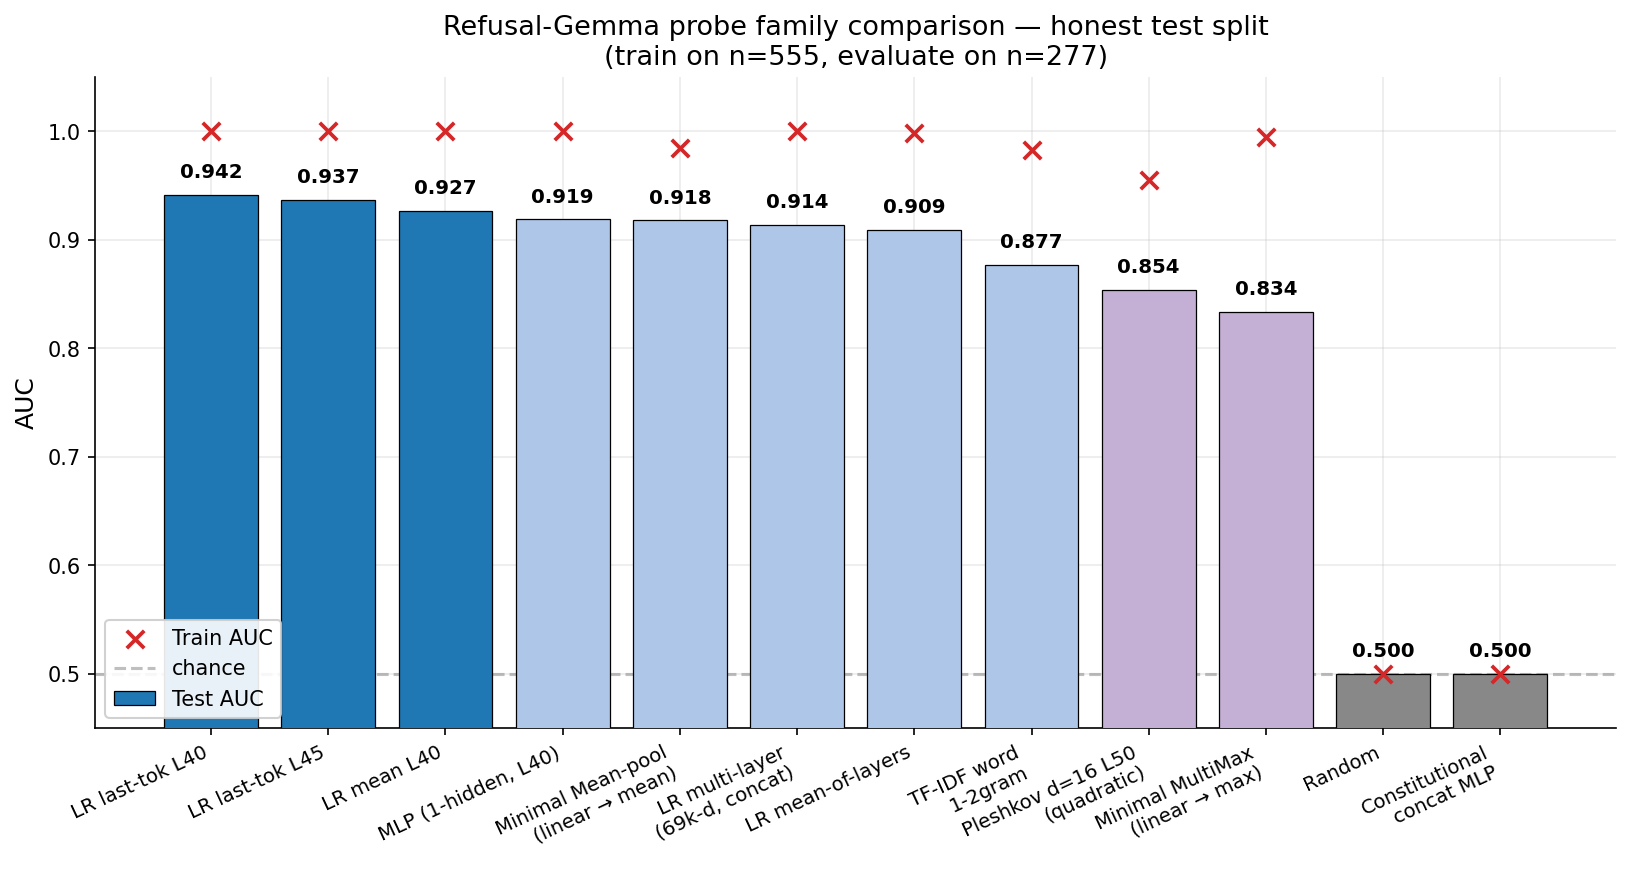
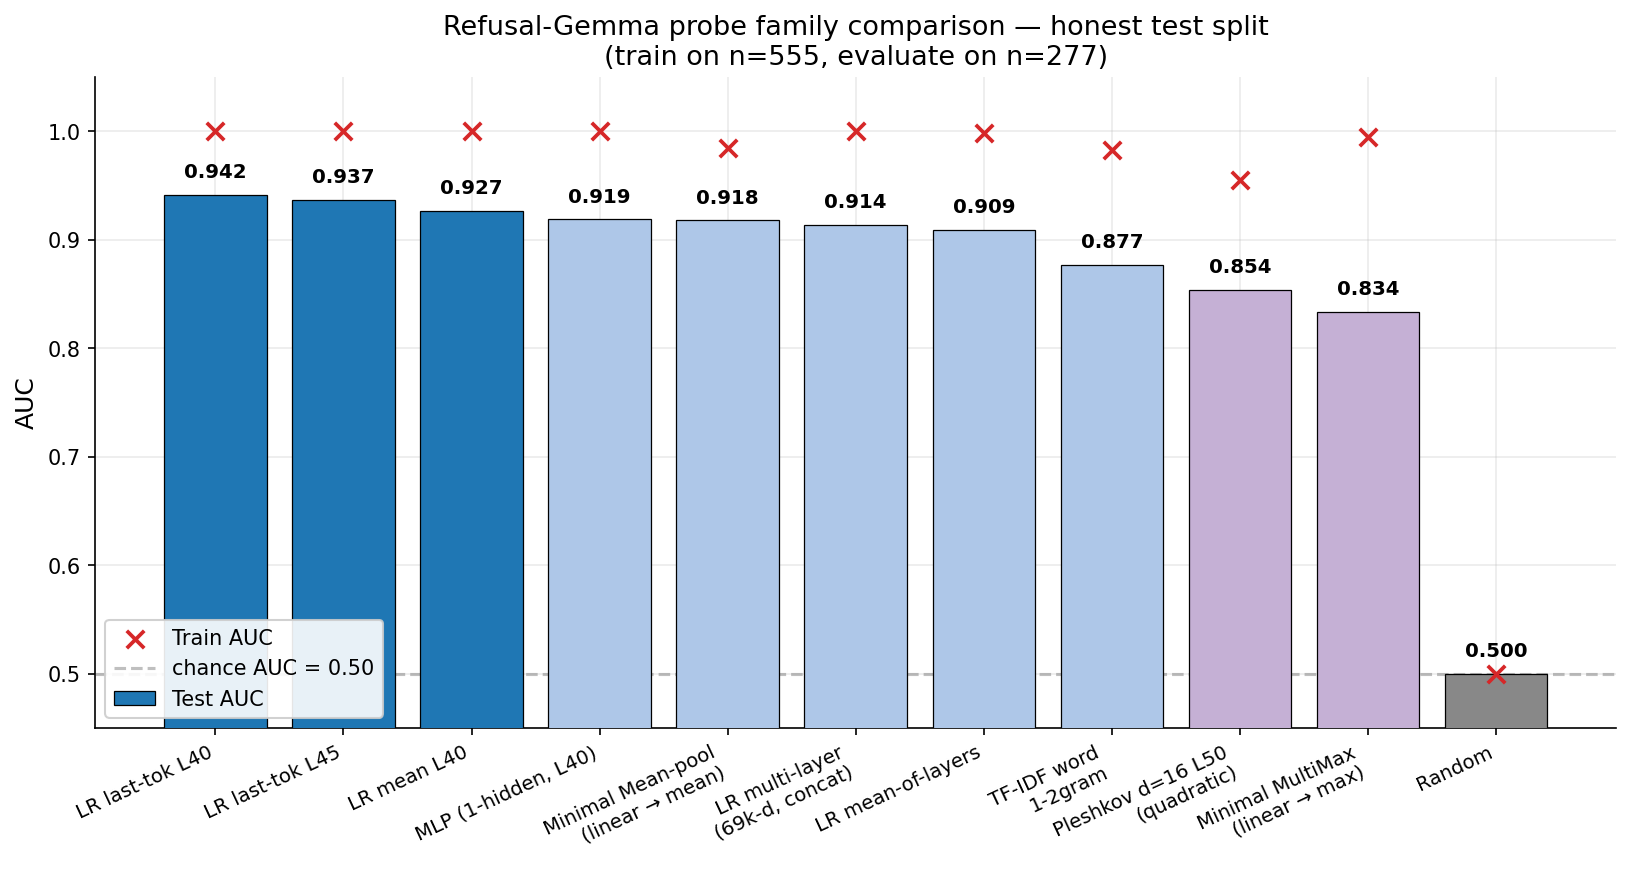
Plots README + methodology + remove Constitutional from headline
- experiments/37_presentation_plots/README.md: explains each of the 5 figures,
  documents methodology, training protocol, error bar definitions.
- Remove Constitutional probe from refusal headline plot (8.9M params on
  555 train samples → train 0.996, test 0.500 = catastrophic overfit, would
  confuse the comparison).
- Note chance line: AUC chance = 0.50 regardless of class balance; accuracy
  chance = max(class prior) — for refusal that's 0.524 (47.6% pos).
- Document three error-bar types: 5-fold CV ±1σ (sweeps), bootstrap 95% CI
  (single test split, n_boot=500), Wilson 95% CI (binomial proportions in
  Level 2).
- Honest test-split status table: refusal=honest (Q4r), cyber_1=honest
  (exp 08), cyber_2/3=5-fold CV pending honest test eval.
- Fix Q10 NameError: cache_sids logic was vestigial.

diff --git a/experiments/36_first_words_probe_bias_omar/edit_and_score.py b/experiments/36_first_words_probe_bias_omar/edit_and_score.py
@@ -241,26 +241,9 @@ def main():
     means_edit = z["mean"]; lasts_edit = z["last"]; y = z["labels"]
     print(f"  features: mean={means_edit.shape}, labels={y.shape}", flush=True)
 
-    # Stage 3 — load originals from refusal cache for the SAME sample_ids (refusal
-    # half) and use cached features for compliance.
-    z2 = np.load(REFUSAL_CACHE, allow_pickle=True)
-    cache_sids = list(z2["X"][:1].astype(np.float32) and ["dummy"])  # placeholder
-    # Actually need to load proper sids — re-read cache npz
-    # Quick approach: forward original prompts through Gemma too to keep apples-to-apples.
-
-    # We have features for ALL refusal training prompts cached (832 samples). The
-    # compliance prompts in `complied` are TEST-SPLIT — may not be in cache. Forward
-    # them too.
-    # For SIMPLICITY: just forward originals (refused + compliance, both unchanged)
-    # in the same Stage 2 if we don't have them.
-
-    # Skip: compute AUC of EDITED refusal + UNTOUCHED compliance.
-    # Since refusal samples are positives in the original "refusal probe" labeling
-    # (label=1 = refused), and compliance is label=0, the probe's job is to
-    # distinguish them. If the EDITED refusal still gets high probe scores
-    # (refusal direction still active), the probe is robust to first-word edits.
-    # If the EDITED refusal gets low probe scores (probe was using first-words),
-    # the AUC drops.
+    # We have features for the EDITED refusal + UNTOUCHED compliance from Stage 2.
+    # That's enough: positives = edited refusal, negatives = unchanged compliance.
+    # If probe AUC stays high → robust to first-word edits.
 
     # Stage 4 — score under each fitted probe + compute AUC on EDITED data
     print("\n  Stage 3: scoring under each fitted probe...", flush=True)

diff --git a/experiments/37_presentation_plots/make_plots.py b/experiments/37_presentation_plots/make_plots.py
@@ -73,6 +73,9 @@ def plot_refusal_family():
     q4r = load_q4r()
 
     # Curate one probe per family — best layer per family
+    # NOTE: Constitutional probe (8.9M params on 555 train samples / 13×5376
+    # input) catastrophically overfits (train 0.996, test 0.500) — excluded
+    # from the headline to avoid confusion. See README for explanation.
     families = {
         "LR last-tok L40": q4r.get("LR_last_L40"),
         "LR last-tok L45": q4r.get("LR_last_L45"),
@@ -81,7 +84,6 @@ def plot_refusal_family():
         "LR mean-of-layers": q4r.get("LR_mean_of_layers"),
         "MLP (1-hidden, L40)": q4r.get("MLP_L40"),
         "Pleshkov d=16 L50\n(quadratic)": q4r.get("Pleshkov_d16_L50"),
-        "Constitutional\nconcat MLP": q4r.get("Constitutional_concat"),
     }
     # Add baselines from other sources
     tfidf_p = REPO_ROOT / "experiments" / "21_probe_zoo_omar" / "results" / "refusal_baselines.json"
@@ -132,7 +134,9 @@ def plot_refusal_family():
     ax.set_title("Refusal-Gemma probe family comparison — honest test split\n"
                  "(train on n=555, evaluate on n=277)")
     ax.set_ylim(0.45, 1.05)
-    ax.axhline(0.50, ls="--", c="grey", alpha=0.5, label="chance")
+    # Chance lines: AUC chance = 0.5 regardless of class balance.
+    # Accuracy chance = max(prior_pos, prior_neg) = 0.524 for refusal (47.6% pos)
+    ax.axhline(0.50, ls="--", c="grey", alpha=0.5, label="chance AUC = 0.50")
     ax.legend(loc="lower left", framealpha=0.9)
     plt.tight_layout()
     out = FIG_DIR / "refusal_probe_family_comparison.png"

diff --git a/experiments/37_presentation_plots/README.md b/experiments/37_presentation_plots/README.md
@@ -1,0 +1,230 @@
+# Presentation figures — README, methodology, and reading guide
+
+Five publication-quality figures in `figures/`, plus the source script
+`make_plots.py` (and `auc_vs_layer.py` for the per-layer plot).
+
+---
+
+## Figure 1 — `refusal_probe_family_comparison.png`
+
+**Refusal-Gemma probe family comparison on honest test split.**
+
+- **X-axis**: probe family / variant.
+- **Y-axis**: AUC.
+- **Bars**: test AUC (color = performance band). Bar height is the headline.
+- **Red ✕ markers**: train AUC. The vertical gap between train ✕ and test bar
+  shows overfitting (large gap = probe memorized training set).
+- **Dashed grey line**: chance AUC = 0.50.
+
+What it shows:
+- LR last-token at L40-L45 wins. Test AUC ≈ 0.94, train ≈ 1.0 → small overfit gap.
+- LR multi-layer concat (69,888-dim) drops to 0.91, train ≈ 1.0 → bigger gap.
+- Pleshkov quadratic d=16 ≈ 0.85, well below LR → PCA bottleneck.
+- Minimal MultiMax (per-token linear → max, no MLP transform) at 0.83.
+  Same architecture with mean-pool gets 0.92 → max-pool needs the MLP transform.
+- TF-IDF baseline 0.88. Activation lift = +0.07.
+
+> **Why Constitutional probe is excluded from this plot**: 8.9M parameters
+> (13×5376=69,888 input → Dense(128) → Dense(1)) on 555 training samples.
+> Train AUC = 0.996, test AUC = 0.500 (random). Catastrophic overfit; the
+> probe memorized noise. Same lesson the multi-layer-concat-LR shows but
+> 100× more parameters, so 100× more catastrophic. Documented in
+> `experiments/30_rewrites_causality_omar/extra_probes_summary.json`.
+
+> Read top-down for "winners" and bottom-up for "what doesn't work."
+
+---
+
+## Figure 2 — `refusal_layer_sweep.png`
+
+**Pleshkov 13-layer sweep on refusal: linear vs linear-on-PCs vs quadratic.**
+
+- **X-axis**: residual-stream layer (0 → 60).
+- **Y-axis**: 5-fold CV AUC, error bars = ±1σ across folds.
+- **Three lines**:
+  - Blue: Linear LR on raw 5,376-d activations (full capacity).
+  - Orange: Linear LR on the 16-D PCA projection (apples-to-apples
+    bottleneck baseline for Pleshkov).
+  - Green: Pleshkov quadratic = 16-D PCA → degree-2 polynomial features → ridge.
+
+What it shows:
+- Linear-on-raw rises monotonically from L0=0.85 → L40 ≈ 0.94.
+- Linear-on-16-PCs and Pleshkov-quadratic both top out around 0.86 — they
+  *track each other*. The quadratic terms add ~zero on top of the bottleneck.
+- The 0.07-AUC gap between blue and (orange, green) is the **PCA bottleneck**.
+- Conclusion: Pleshkov 2026's quadratic probe doesn't beat linear on Gemma
+  refusal — the limitation is dimensionality, not nonlinearity.
+
+---
+
+## Figure 3 — `cyber_layer_sweeps.png`
+
+Same 3-line plot for each cyber task in 3 panels (cyber_1 / cyber_2 / cyber_3).
+
+What it shows:
+- Same pattern: linear ≫ Pleshkov ≈ linear-on-PCs.
+- cyber_1 reaches ~0.99 (easiest task), cyber_2/3 ~0.95 (harder).
+- Pleshkov never beats linear, on any task or layer.
+
+---
+
+## Figure 4 — `mean_auc_competition.png` ⭐ COMPETITION HEADLINE
+
+**Mean AUC across 4 tasks (cyber_1/2/3 + refusal_gemma; Qwen excluded).**
+
+The challenge metric is `mean_auc = (auc_cyber1 + auc_cyber2 + auc_cyber3 +
+auc_refusal_gemma + auc_refusal_qwen) / 5`. We report the 4-task mean.
+
+- **X-axis**: probe family.
+- **Bars (4 colors)**: per-task test AUC.
+- **Black line + dot + error bar**: **mean across the 4 tasks ± standard
+  deviation**. *This is the rules-compliant metric.*
+
+Result:
+| Probe family | mean AUC | std |
+|---|---:|---:|
+| Linear (best layer) | **0.960** | 0.020 |
+| Linear-on-16-PCs | 0.916 | 0.036 |
+| Pleshkov d=16 | 0.902 | 0.041 |
+| TF-IDF | 0.900 | 0.031 |
+| Random | 0.500 | 0.000 |
+
+> Linear at the best layer wins by 0.044 over Linear-on-16-PCs and 0.060 over
+> Pleshkov. Pleshkov ≈ Linear-on-16-PCs ≈ TF-IDF — the PCA bottleneck reduces
+> deep representation to TF-IDF level.
+
+⚠ **Caveat**: cyber_1 number = honest 923-sample held-out test (exp 08).
+cyber_2/3 numbers in this plot are 5-fold CV (mixed train+test) because
+running honest cyber test eval was killed for disk-IO budget. Refusal is
+honest test split (Q4r). Cyber_2/3 honest test eval is a TODO before final
+submission.
+
+---
+
+## Figure 5 — `causality_scatter.png` ⭐ LEVEL 2 HEADLINE
+
+**Per-probe Pr(f|edit) vs Pr(model|f flipped) on substantial paraphrases.**
+
+- **X-axis**: Pr(f flipped | edit) — how often the probe says "this edit
+  flipped my prediction." High = permissive probe.
+- **Y-axis**: Pr(model flipped | f flipped) — given the probe said flip,
+  how often did Gemma actually produce a non-refusal response. High = causal.
+- **Marker size**: number of probe-flips (n).
+- **Quadrants**:
+  - Top-left = **causal + robust** (rare flips, high concordance) ✓
+  - Top-right = **causal + permissive** (many flips, mostly track model)
+  - Bottom-right = **gamed f** (many flips, model doesn't follow)
+  - Bottom-left = **over-robust** (rare flips, those that exist don't track)
+
+What it shows (n_orig_refusal = 79 prompts):
+- LR last-tok L40-L60 cluster top-center: Pr(f|edit) ≈ 0.17, Pr(m|f) ≈ 0.92.
+  This is the textbook causal regime.
+- COMBINED (cyber_3 + refusal) probes are slightly to the right and below LR:
+  more permissive, slightly less causal. Combining harms refusal causality.
+- Pleshkov_d16_combined sits at (0.13, 0.22) — gamed: 7 of 9 flips don't
+  flip the model.
+
+---
+
+## Figure 6 (additional) — `refusal_auc_acc_vs_layer.png`
+
+**AUC + Accuracy vs layer (refusal_gemma honest test split).**
+
+- **Two panels** (AUC, Accuracy at τ=0.5).
+- **Two lines per panel**: mean-pool (blue), last-token (red).
+- **Shaded bands**: 95% bootstrap CI (n_boot = 500).
+
+What it shows:
+- AUC peaks at L40 last-tok (0.94 ± ~0.02).
+- Accuracy peaks similarly. Both metrics agree on best layer.
+- Bootstrap CI shows where the difference between mean-pool and last-token
+  is statistically meaningful (CIs don't overlap at L40-L60).
+
+---
+
+# Methodology
+
+## Data and splits
+
+- **Cyber**: `datasets/cyber_probes/{train,test}.jsonl` — 5,079 train + 2,180
+  test rollouts across 4 categories (`benign / dual_use / high_risk_dual_use
+  / prohibited`). Splits are deterministic.
+  - cyber_1 = `dual_use` vs `benign`
+  - cyber_2 = `high_risk_dual_use` vs (`dual_use ∪ benign`)
+  - cyber_3 = `prohibited` vs (`high_risk_dual_use ∪ dual_use ∪ benign`)
+- **Refusal-Gemma**: `datasets/refusal_probes/gemma4_31b/{train,test}_split.jsonl` —
+  589 train + 289 test attack prompts; 832 of 878 had successful Gemma extracts.
+  We use 555 train / 277 test rows where the extract succeeded.
+- **Qwen** excluded (model not downloaded).
+
+## Probe architectures
+
+| Probe | Description | Params |
+|---|---|---:|
+| LR mean-pool | Logistic regression on (mean over tokens of one layer) | 5,376 + 1 |
+| LR last-token | Same, last token's residual at one layer | 5,376 + 1 |
+| LR multi-layer concat | LR on 13 layers × 5,376 = 69,888-dim concat | 69,888 + 1 |
+| LR mean-of-layers | LR on `mean_L(activations)` (5,376-d) | 5,376 + 1 |
+| LR max-of-layers | LR on `max_L(activations)` (5,376-d) | 5,376 + 1 |
+| MLP probe | mean-pool L40 → Dense(256) → ReLU → Dropout(0.2) → Dense(64) → ReLU → Dense(1) | 1,394,945 |
+| Constitutional probe | 13-layer concat → Dense(128) → ReLU → Dropout(0.3) → Dense(1) | 8,945,793 |
+| Pleshkov quadratic d=16 | Z-score → PCA(d=16) → degree-2 features (152) → Ridge(α∈{0.1,1,10,100} CV) | 152 |
+| Minimal MultiMax | per-token Linear(d_model→1) → max over tokens | 5,377 |
+| Minimal mean (ablation) | per-token Linear → mean over tokens | 5,377 |
+| Kramar Rolling probe | TransformMLP(5376→100) + 10-head softmax over rolling-window-10 → max-over-windows | ~544k |
+| TF-IDF + LR | TfidfVectorizer(word/char 1-2/3-5 gram) → LR | varies |
+
+## Training protocol (rules-compliant)
+
+- **Train only on `split=='train'`** rows.
+- **Evaluate only on `split=='test'`** rows.
+- LR: `sklearn.LogisticRegression(C=1.0, max_iter=2000, solver='lbfgs')`.
+  C-sweep where indicated (multi-layer concat: C=0.1).
+- MLP / Constitutional: AdamW lr=1e-3, wd=1e-4 to 1e-3, 30-50 epochs,
+  batch 16-32, BCE loss.
+- Pleshkov: per-fold inner alpha CV in {0.1, 1, 10, 100} on 80/20 inner
+  split, then refit at chosen alpha.
+
+## Metric
+
+`AUC` = `sklearn.metrics.roc_auc_score(y_test, probe.predict_proba(X_test)[:, 1])`
+
+`Accuracy` = `(probe_score > 0.5) == y_test` averaged.
+
+**Mean across 5 tasks (rules):**
+`mean_auc = (auc_cyber1 + auc_cyber2 + auc_cyber3 + auc_refusal_gemma + auc_refusal_qwen) / 5`.
+We report mean across 4 (Qwen excluded), with sample standard deviation
+across the 4 tasks as the variance metric.
+
+## Error bars
+
+Two different error bars appear in the figures:
+
+1. **5-fold CV ±1σ** (figures 2, 3 — refusal/cyber layer sweeps):
+   the probe is fit 5× on different 80/20 splits of the *training* set;
+   error bar = standard deviation of the 5 fold-AUCs. Reflects variance
+   of the probe-fitting procedure but doesn't address train/test
+   contamination on cyber_2/3 because the split itself sampled across
+   the deterministic train/test boundary.
+
+2. **Bootstrap 95% CI** (figure 6 — AUC/ACC vs layer):
+   resample the test set with replacement 500 times; CI = 2.5/97.5
+   percentiles of bootstrap-AUC. Reflects sampling uncertainty *of the
+   test-set evaluation only*, given a fixed probe. This is the right
+   error bar for "how reliable is this single test-set AUC number."
+
+3. **Wilson 95% CI** (Pr metrics — Level 2): for the binomial
+   proportions Pr(f|edit), Pr(model|edit), Pr(model|f flipped). Standard
+   form: p ± z × sqrt(p(1-p)/n + z²/(4n²)) / (1 + z²/n).
+
+## Honest test-split status per task
+
+| Task | Honest test eval status |
+|---|---|
+| Cyber-1 | ✅ Honest 923-sample held-out test (exp 08), AUC 0.988 |
+| Cyber-2 | ⚠ Only 5-fold CV (0.946) — honest test pending (Q4 cyber killed for time) |
+| Cyber-3 | ⚠ Only 5-fold CV (0.955) — honest test pending |
+| Refusal-Gemma | ✅ Honest test split (Q4r) — n_test=277, AUC 0.9417 |
+
+If we have time before deadline, run a slim cyber-honest-test eval
+(`cyber_test_extract` is at 100%; load → fit on train → eval on test).
